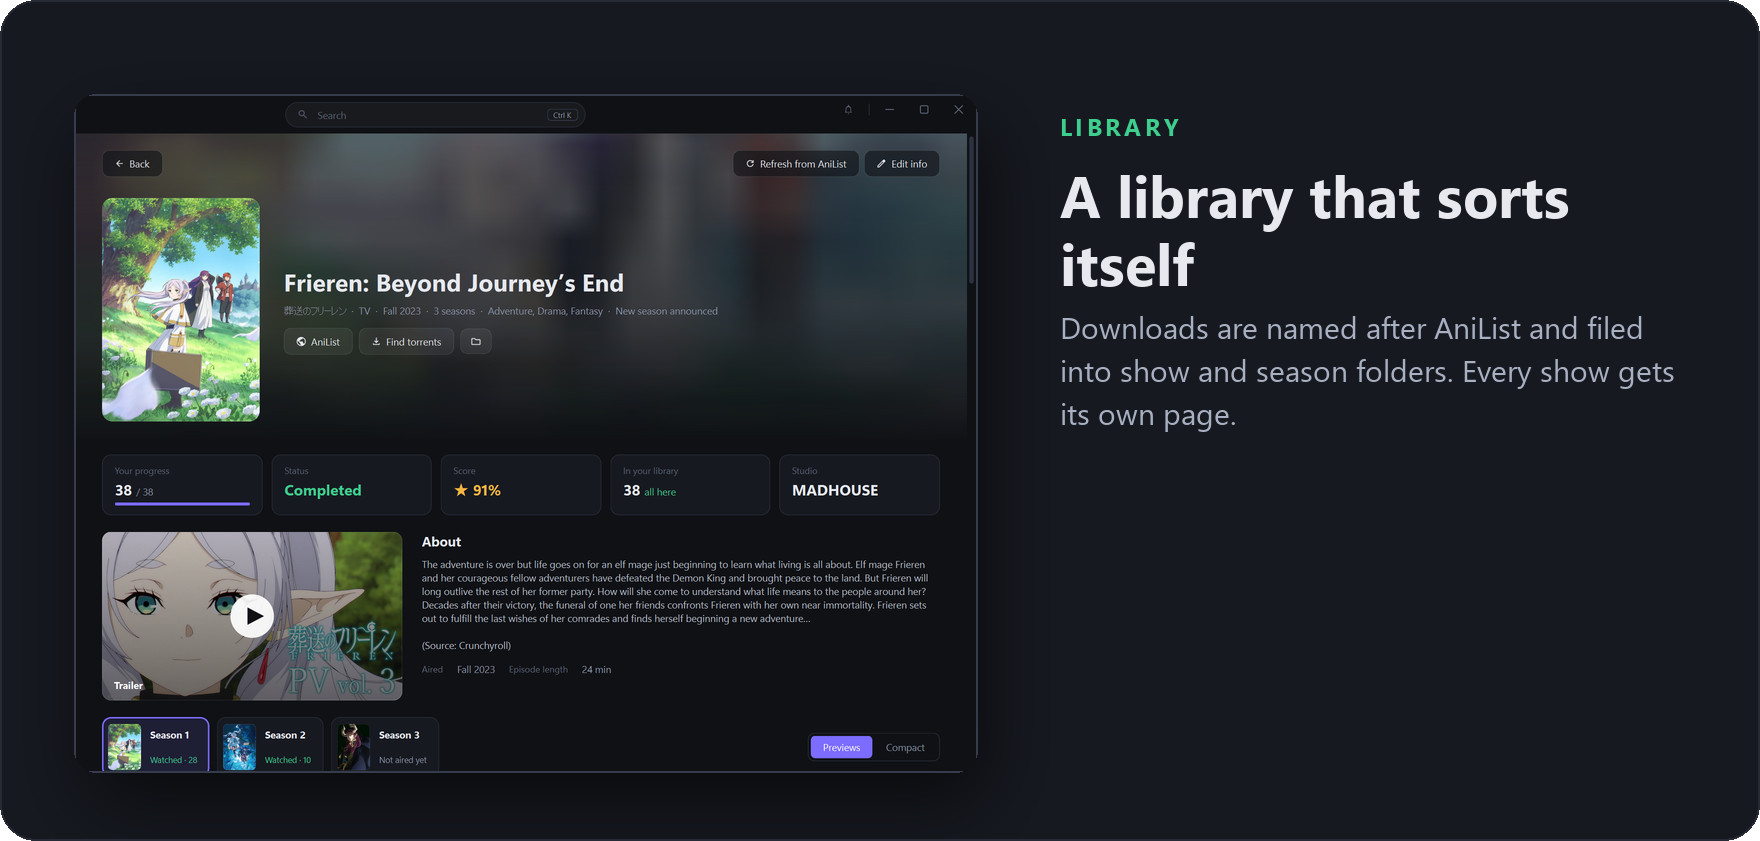
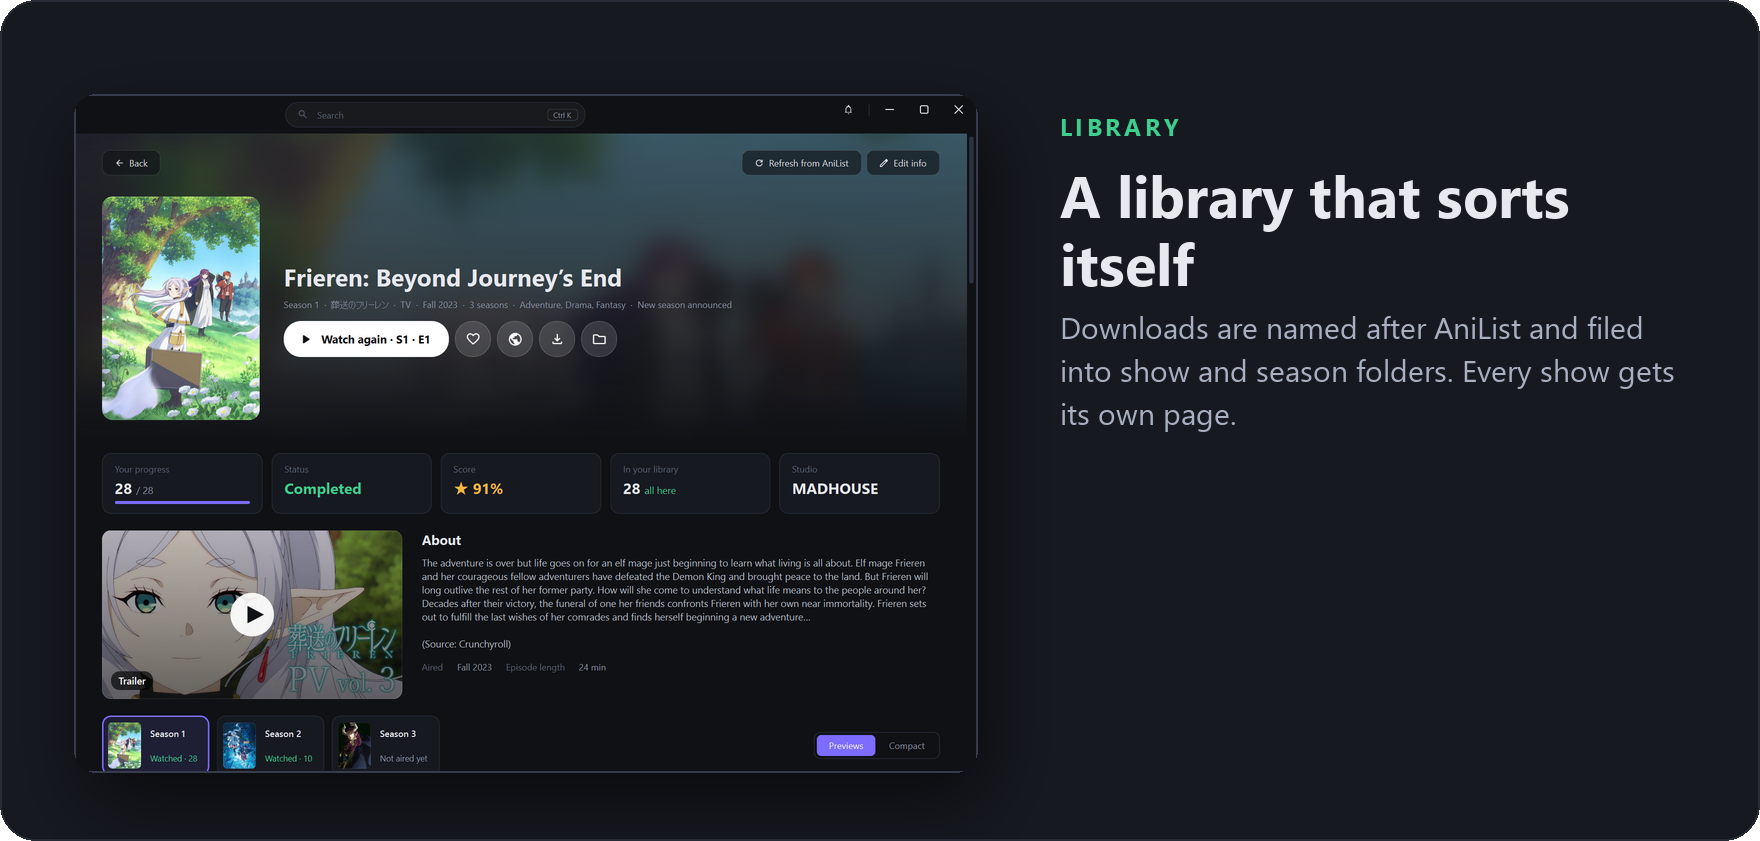
README pictures for Browse and episode versions, Watch again with an unaired season
- New README cards: Browse and the episode version picker; Home, show page, Schedule, Kickoff and Seasonal
  retaken on today's look (demo AniList list, nothing from the real library)
- Show page: "Watch again" also shows when a season is announced but not aired yet (Frieren had no Play button)

diff --git a/README.md b/README.md
@@ -22,7 +22,9 @@ same library.
 ## Features
 
 <p align="center"><img src="docs/images/home.png" alt="Home: up next, new in your library, airing today" width="100%"></p>
+<p align="center"><img src="docs/images/browse.png" alt="Browse: a surprise pick, moods, trending and what you can stream right now" width="100%"></p>
 <p align="center"><img src="docs/images/library.png" alt="Library: a show page with progress, seasons and trailer" width="100%"></p>
+<p align="center"><img src="docs/images/versions.png" alt="Versions: pick which version of an episode plays, or set a rule for the show" width="100%"></p>
 <p align="center"><img src="docs/images/schedule.png" alt="Schedule: the week's episodes and what's downloaded" width="100%"></p>
 <p align="center"><img src="docs/images/tvmode.png" alt="TV mode: full screen with a controller, a show's banner art, episodes and button hints" width="100%"></p>
 <p align="center">
